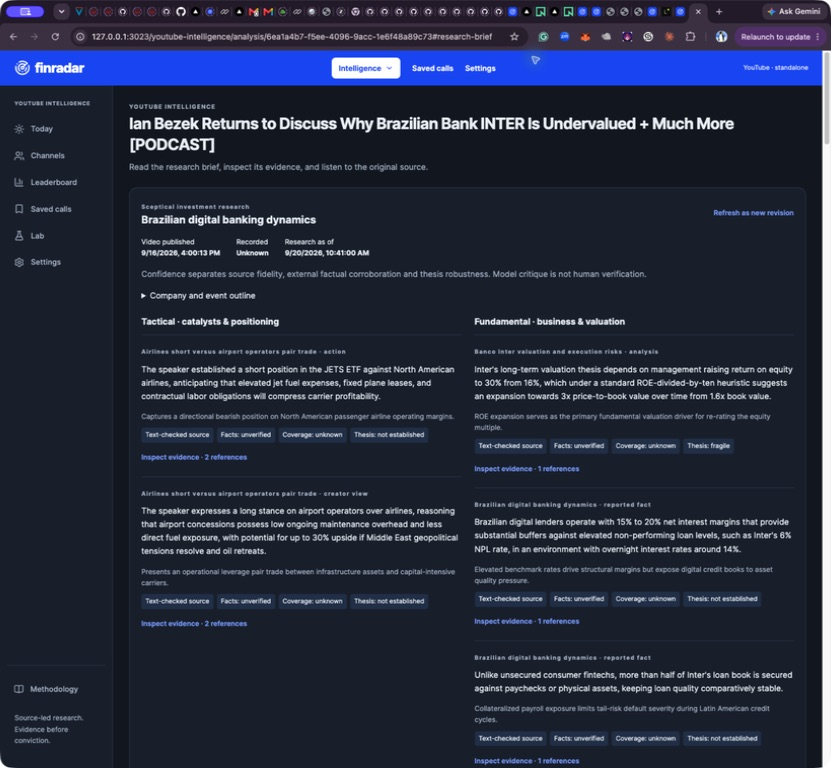
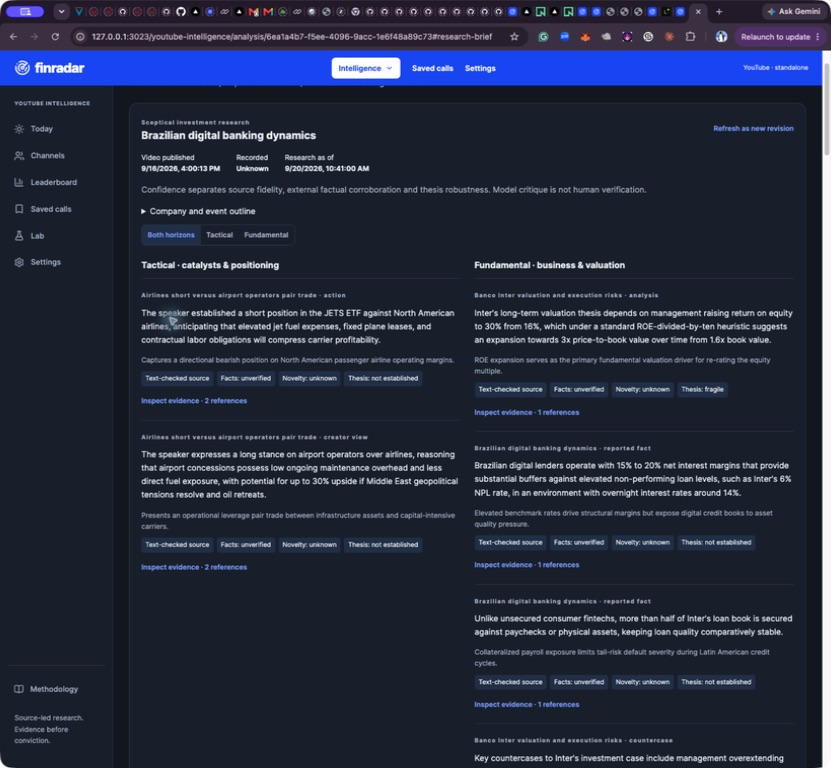
Record research activation limits and final browser evidence

diff --git a/docs/delivery/worker-operations.md b/docs/delivery/worker-operations.md
@@ -134,3 +134,26 @@ To allow jobs after acceptance, set `YTI_QUEUE_PAUSED=false` in the runtime's
 `.env.live` and restart its worker. This has not been enabled by the build.
 The repo's `.env` remains fixture-only; its `.env.live` connects to the same live
 localhost cluster for controlled operational commands.
+
+### Research briefs (v8)
+
+The new default prompt for new workspaces is `evidence-first.web.v8`. Existing
+saved team preferences are preserved; select v8 in Settings to enable automatic
+research briefs for future analyses. Completed older analyses can generate a
+brief from their retained accepted evidence. Each refresh creates an auditable
+revision rather than replacing history.
+
+External verification additionally needs `EXA_API_KEY` in the **worker's** secret
+environment. For this Mac installation that is the protected runtime
+`.env.live` above; repository `.env.live` is used only by explicitly launched
+repository processes. Restart the worker after adding the key. Keep the queue
+paused until ready to admit work. Create a bounded new research-brief revision
+and inspect its retrieval records, date eligibility, factual badges and cost
+ledger before enabling automatic intake. The initial research build tested
+these paths with fixtures; live external corroboration is still unverified.
+
+On a hosted persistent worker, provide the same key through the host secret
+store alongside the database/model credentials. The web service does not need
+the search key merely to display retained briefs. Search timeouts/unknown
+charges do not automatically rebill; inspect the retained record before
+requesting a new revision.
